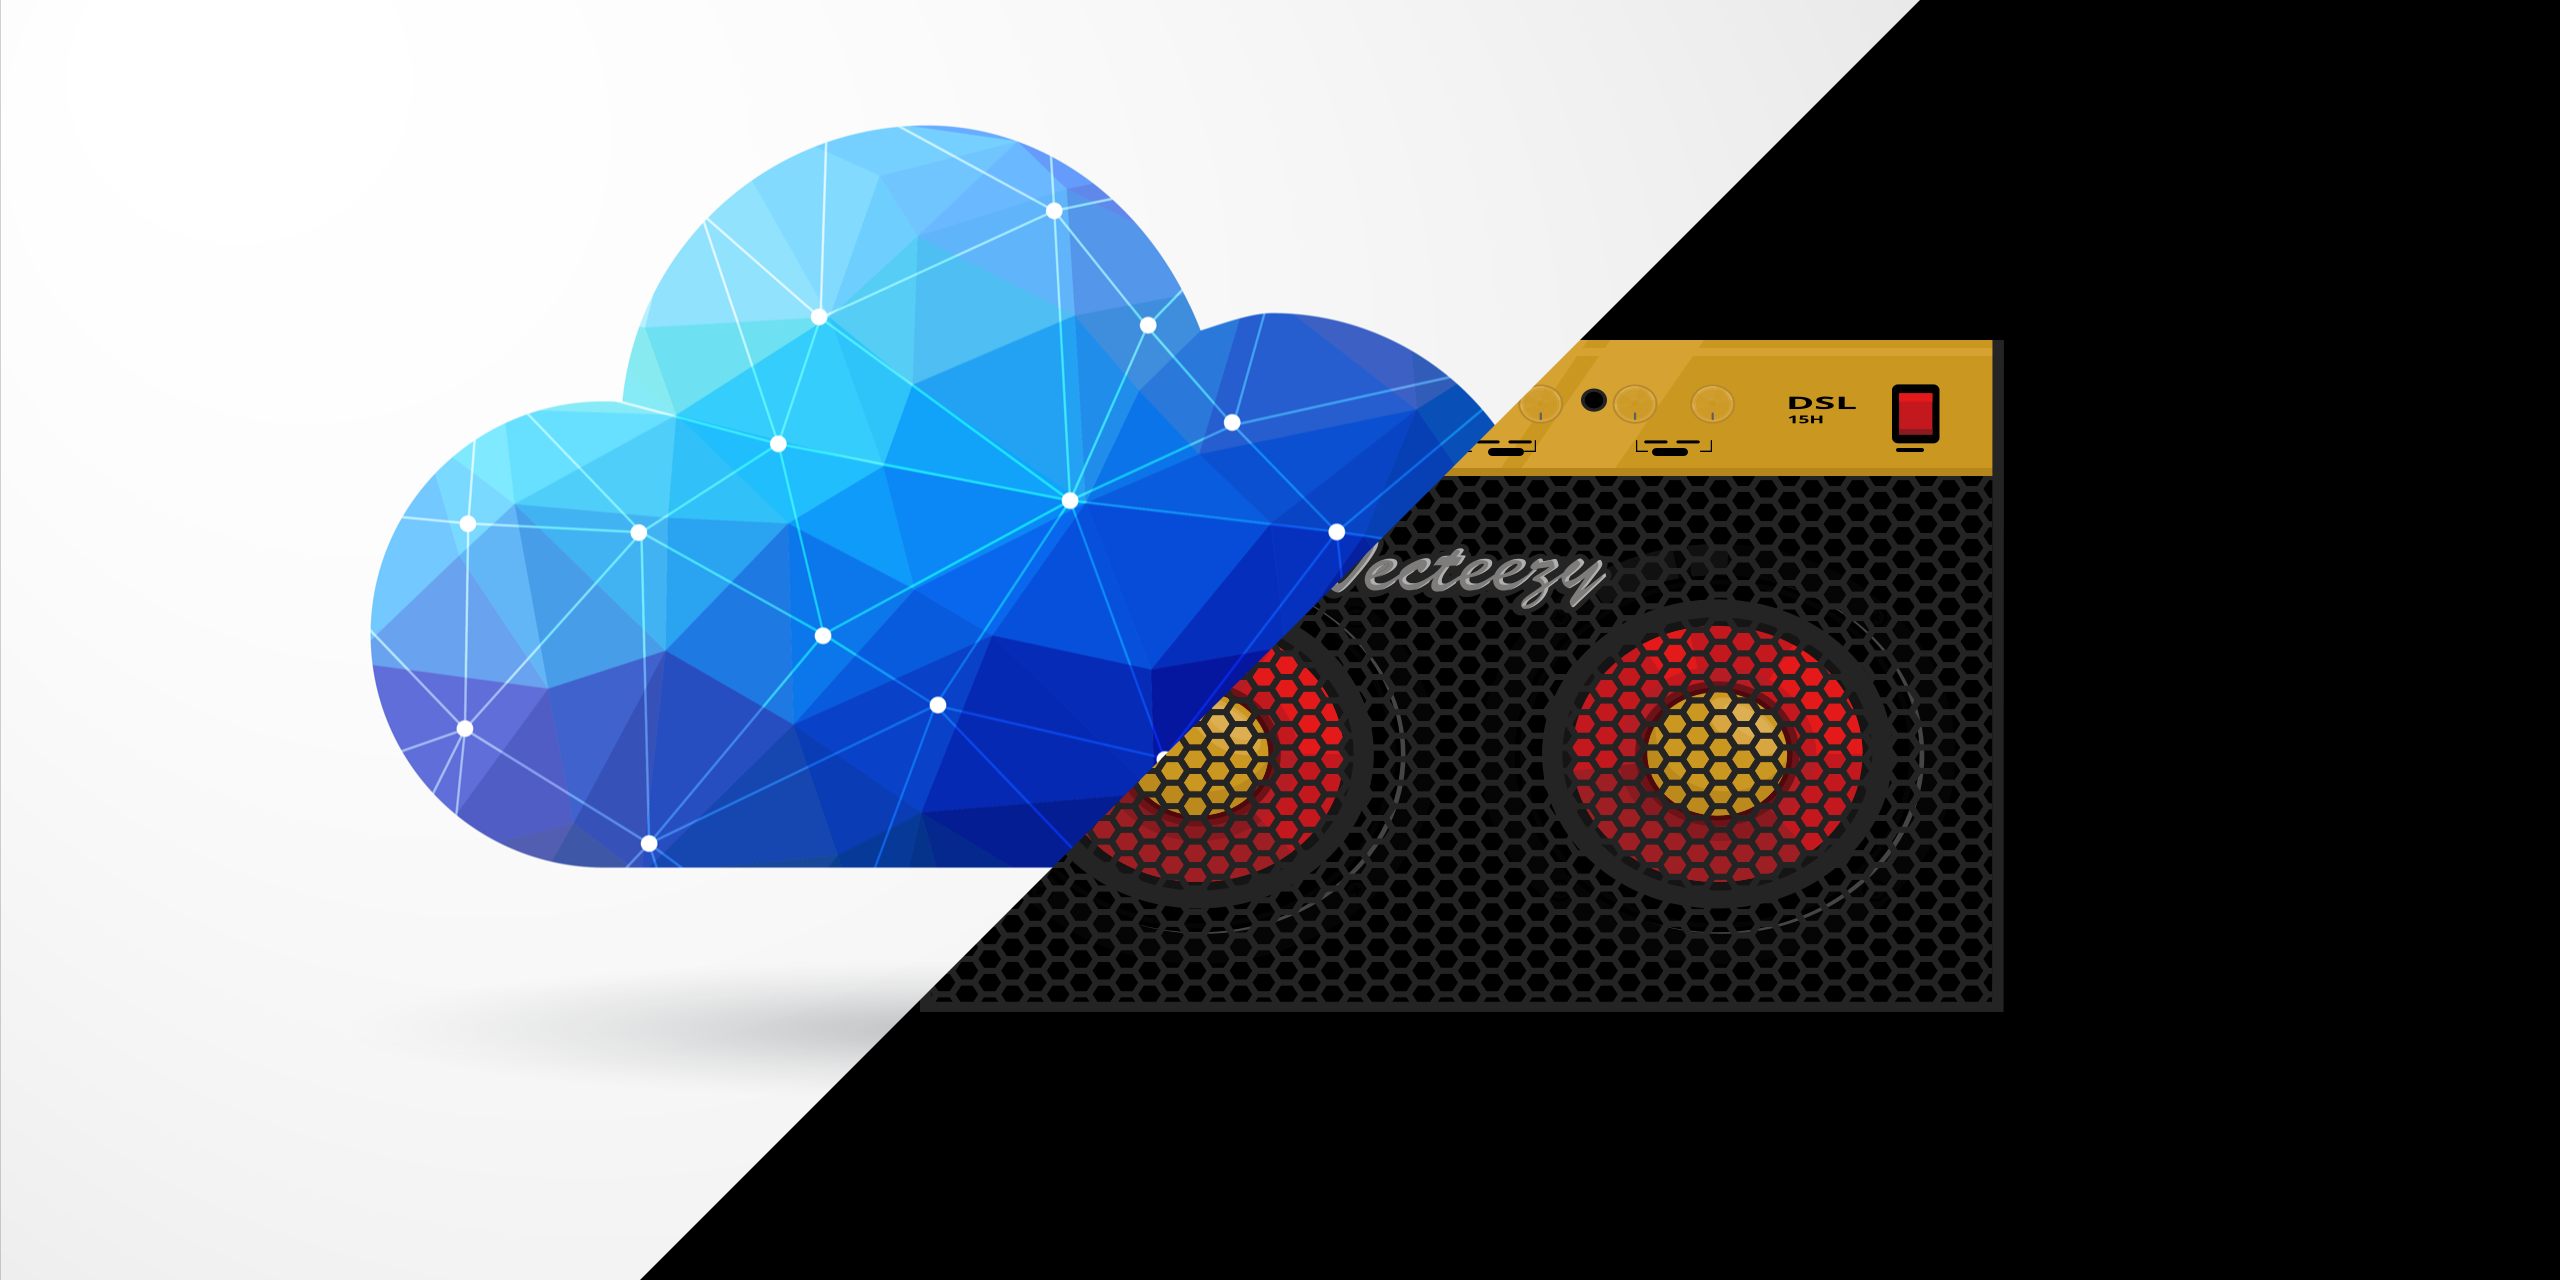
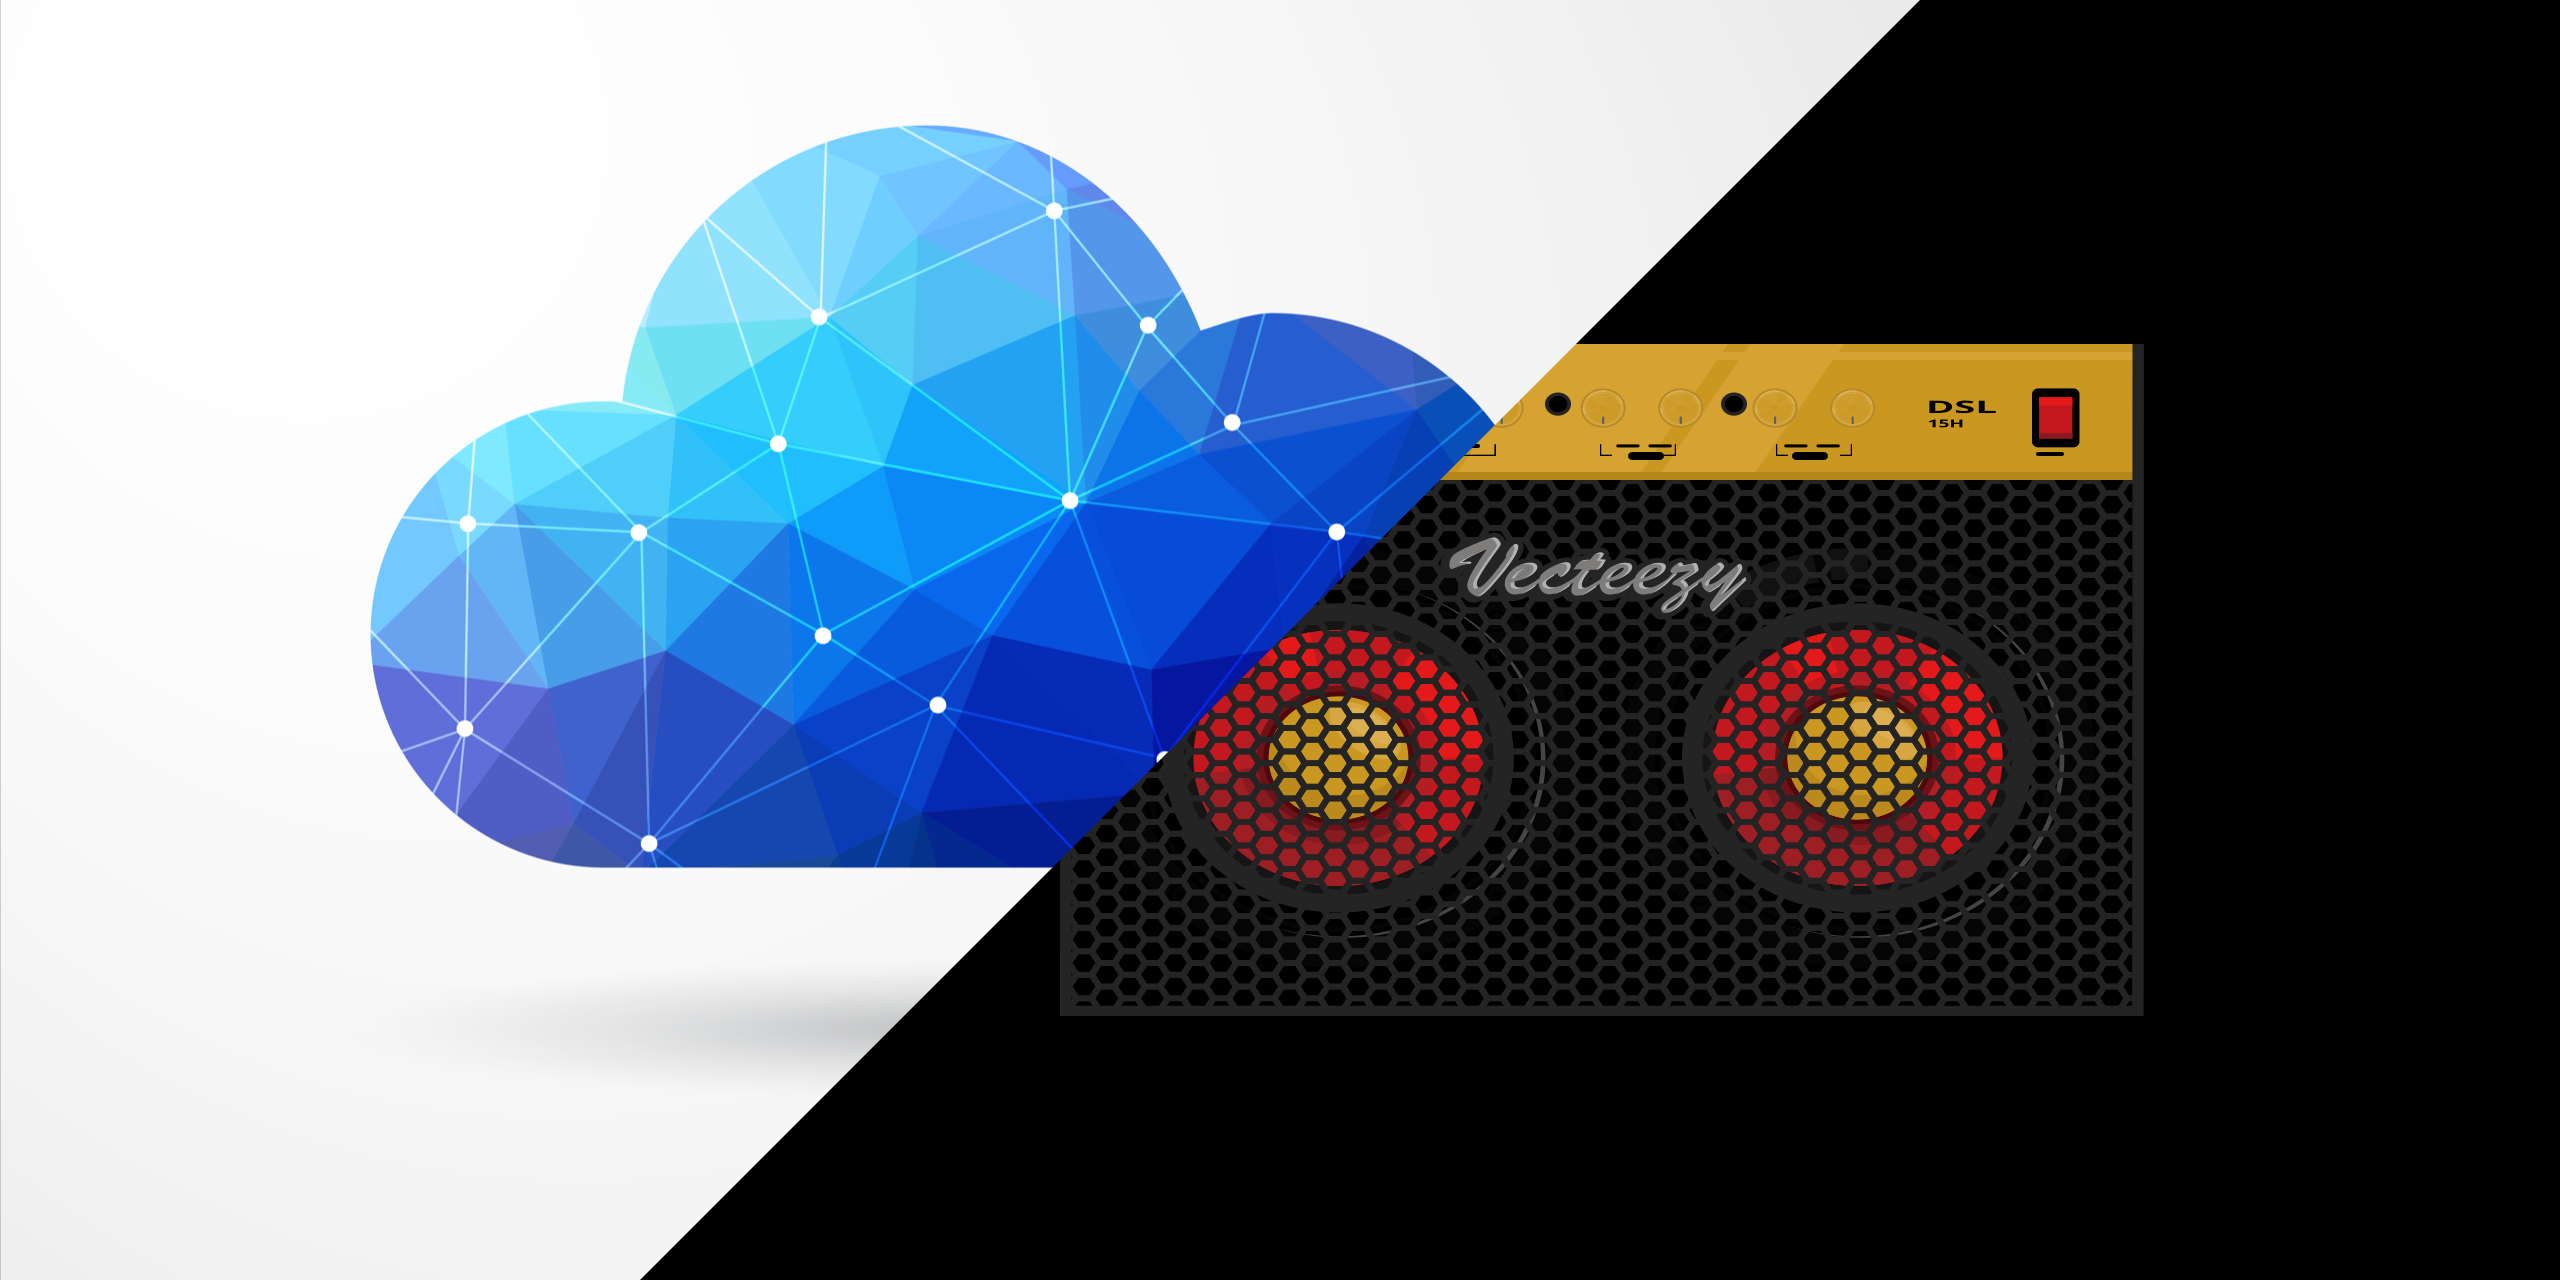
feat: resize naodong image

Changed region(s): [[0.3438, 0.25, 0.8438, 0.8125]]

diff --git a/src/hooks/use-naodong.js b/src/hooks/use-naodong.js
@@ -13,7 +13,12 @@ const useNaoDong = () => {
               author
               image {
                 sharp: childImageSharp {
-                  fluid {
+                  fluid(
+                    maxWidth: 472
+                    maxHeight: 368
+                    cropFocus: CENTER
+                    quality: 100
+                  ) {
                     ...GatsbyImageSharpFluid_withWebp
                   }
                 }

diff --git a/src/components/naodong-grid.js b/src/components/naodong-grid.js
@@ -20,12 +20,12 @@ const articleStyle = css`
     font-family: ${fontFamily.yuanti};
     font-size: 1rem;
     font-weight: normal;
-    margin: 1rem 0;
+    margin: 1rem 0 1.2rem;
   }
   p {
     color: ${colors.light};
-    font-size: 1rem;
-    line-height: 1.2em;
+    font-size: 0.9rem;
+    line-height: 1.35em;
   }
 `
 

diff --git a/src/components/column-grid.js b/src/components/column-grid.js
@@ -30,6 +30,7 @@ const articleStyle = css`
   }
   p {
     font-size: 1rem;
+    line-height: 1.4rem;
     color: ${colors.light};
   }
 `
